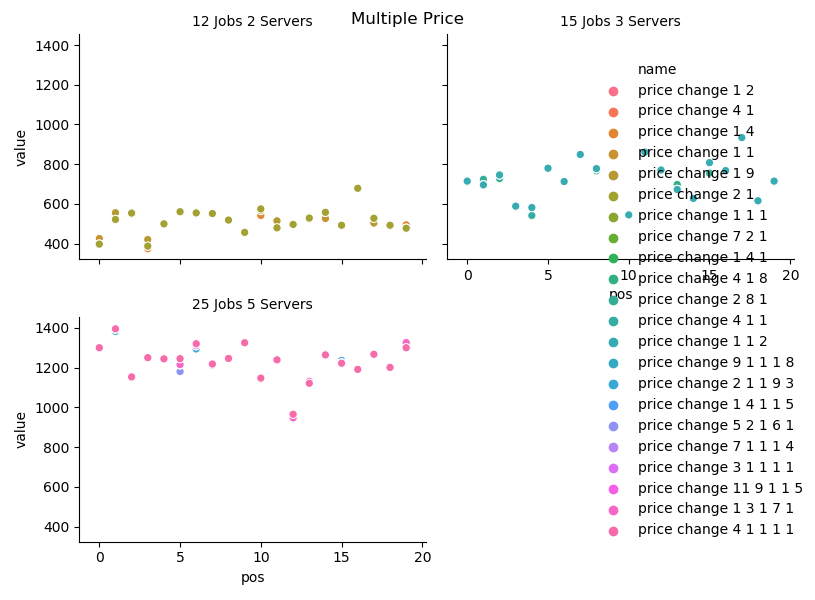
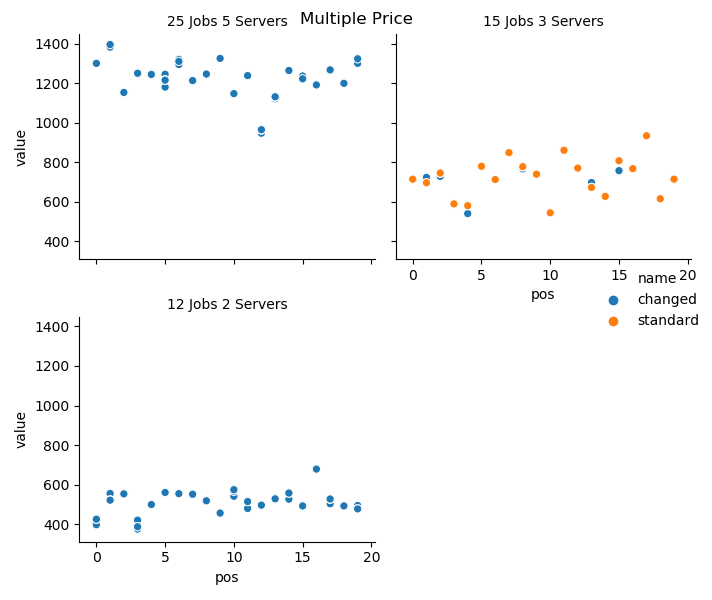
Report image update

diff --git a/testing/analysis/auctions_analysis.py b/testing/analysis/auctions_analysis.py
@@ -89,7 +89,37 @@ def plot_auction_results(files, title):
             for pos, results in enumerate(json_data):
                 for name, result in results.items():
                     data.append((model, pos, name, result[0], result[1]))
+    data = reversed(data)
 
+    df = pd.DataFrame(data, columns=['model', 'pos', 'name', 'value', 'price'])
+    g: sns.FacetGrid = sns.FacetGrid(df, col='model', col_wrap=2)
+    # noinspection PyUnresolvedReferences
+    g = (g.map(sns.scatterplot, 'pos', 'value', hue='name', data=df)
+         .set_titles("{col_name}").add_legend())
+    g.fig.subplots_adjust(top=0.9)
+    g.fig.suptitle(title)
+    plt.show()
+
+
+def plot_multiple_price_auction_results(files, title):
+    """
+    Plots the auction results
+    :param files: The files
+    :param title: The title
+    """
+    data = []
+    for file, model in files:
+        with open(file) as json_file:
+            json_data = json.load(json_file)
+
+            for pos, results in enumerate(json_data):
+                for name, result in results.items():
+                    if name == "price change 1 1" or name == "price change 1 1 1":
+                        data.append((model, pos, "standard", result[0], result[1]))
+                    else:
+                        data.append((model, pos, "changed", result[0], result[1]))
+
+    data = reversed(data)
     df = pd.DataFrame(data, columns=['model', 'pos', 'name', 'value', 'price'])
     g: sns.FacetGrid = sns.FacetGrid(df, col='model', col_wrap=2)
     # noinspection PyUnresolvedReferences
@@ -113,7 +143,7 @@ def plot_mutate_auction_results(files, title):
 
             for pos, results in enumerate(json_data):
                 for name, result in results.items():
-                    if name != 'no mutate':
+                    if name != 'no mutation':
                         data.append((model, pos, 'mutate', result[0], result[2] - result[3]))
 
                 data.append((model, pos, 'no mutation', results['no mutation'][0], results['no mutation'][2] - results['no mutation'][3]))
@@ -165,8 +195,8 @@ if __name__ == "__main__":
     ]
 
     # plot_auction_results(normal_files, "Normal")
-    # plot_auction_results(single_price_auctions, "Single Price")
-    # plot_auction_results(multi_price_auction, "Multiple Price")
+    plot_auction_results(single_price_auctions, "Single Price")
+    plot_multiple_price_auction_results(multi_price_auction, "Multiple Price")
 
     # plot_mutate_auction_results(mutated_price_auction, "Mutate")
     # plot_mutate_auction_results(mutated_price_2_auction, "Mutate 2")

diff --git a/testing/analysis/greedy_analysis.py b/testing/analysis/greedy_analysis.py
@@ -74,7 +74,7 @@ def plot_results(files, title, aspect):
                     best = max(value for value in results.values())
 
                 for result, value in results.items():
-                    if value is not None and value < best:
+                    if value is not None:
                         if result in algo_difference:
                             algo_difference[result].append(value / best)
                         else:
@@ -88,6 +88,9 @@ def plot_results(files, title, aspect):
     g = sns.FacetGrid(df, col='model', height=6, aspect=aspect, sharex=False)
     # noinspection PyUnresolvedReferences
     g = (g.map(sns.barplot, 'value', 'algorithm').set_titles("{col_name}"))
+    axes = g.axes
+    for pos in range(len(files)):
+        axes[0, pos].set_xlim(0.9, 1)
     g.fig.suptitle(title, size=16)
     g.fig.subplots_adjust(top=1)
     plt.show()
@@ -151,6 +154,12 @@ if __name__ == "__main__":
         ("../results/september_5/basic_j150_s25_no_optimal_greedy_test.txt", "150 Jobs 25 Servers"),
     ]
 
+    optimal_2_files = [
+        ("../results/september_6/basic_j12_s2_greedy_test.txt", "12 Jobs 2 Servers"),
+        ("../results/september_6/basic_j15_s3_greedy_test.txt", "15 Jobs 3 Servers"),
+        ("../results/september_6/basic_j25_s5_greedy_test.txt", "25 Jobs 5 Servers")
+    ]
+
     relaxed_2_files = [
         ("../results/september_6/relaxed_results_j12_s2.txt", "12 Jobs 2 Servers"),
         ("../results/september_6/relaxed_results_j15_s3.txt", "15 Jobs 3 Servers"),
@@ -161,6 +170,6 @@ if __name__ == "__main__":
     # plot_results(no_optimal_files, "Greedy results without Optimal")
     # plot_results(j25_s2_files, "Greedy results without Optimal")
     # plot_relaxed(relaxed_1_files)
-    # plot_results(no_optimal_2_files, "Greedy results without Optimal", 0.55)
-    # plot_results(optimal_2_files, "Greedy results with Optimal", 1)
-    plot_relaxed(relaxed_2_files)
+    plot_results(no_optimal_2_files, "Greedy results without Optimal", 0.55)
+    plot_results(optimal_2_files, "Greedy results with Optimal", 0.75)
+    # plot_relaxed(relaxed_2_files)

diff --git a/report/auctions.tex b/report/auctions.tex
@@ -1,8 +1,11 @@
+\usepackage{graphicx}
+
 While the greedy algorithm allows us to find near optimals for problems where we have perfect information about the
 problem case like the job utility, this may be private information that the job owner doesnt want to reveal also
 server would want to get paid for that work that they do. \\
-We propose a iterative auctions where the job owner doesnt have to reveal it's true utility. In normal VCG auctions,
-then the auctioneer will solve the problem to maximise the social welfare (total utility of allocated jobs) and
+We propose a iterative auctions that occurs before any processing is done and allows the job owner doesnt have to reveal
+it's true utility. In normal VCG auctions, then the auctioneer will solve the problem to maximise the social welfare
+(total utility of allocated jobs) and
 must find the optimal solution. Then for each job and server, the job or server is removed from the problem case and the
 optimal is solved for that as well with the server's revenue it is paid and the job's cost being the social welfare of
 the optimal solution minus the social welfare of the optimal without the job or server. This is extremely slow and
@@ -61,4 +64,9 @@ while len(unallocated_jobs):
     \centering
     \includegraphics[width=1\linewidth]{./images/multiple_price_auction_results.png}
     \caption{Multiple Price auction results}
+\end{figure}
+\begin{figure}[H]
+    \centering
+    \includegraphics[width=1\linewidth]{./images/mutated_auction.png}
+    \caption{Mutated Jobs and servers in auctions}
 \end{figure}

diff --git a/report/greedy-algorithm.tex b/report/greedy-algorithm.tex
@@ -84,13 +84,13 @@ Both of these greedy algorithm are near optimal approximation algorithm with a l
 optimal solution.
 
 \subsection{Greedy algorithms results}\label{subsec:greedy-algorithms-results}
-\begin{figure}
-\centering
-        \includegraphics[width=1\linewidth, height=5cm]{./images/optimal_greedy_results.png}
+\begin{figure}[H]
+    \centering
+    \includegraphics[width=1\linewidth, height=5cm]{./images/optimal_greedy_results.png}
     \caption{Greedy Results}
 \end{figure}
-\begin{figure}
-\centering
-        \includegraphics[width=1\linewidth, height=5cm]{./images/no_optimal_greedy_results.png}
+\begin{figure}[H]
+    \centering
+    \includegraphics[width=1\linewidth, height=5cm]{./images/no_optimal_greedy_results.png}
     \caption{Greedy Results with the optimal algorithms}
 \end{figure}

diff --git a/report/static_resource_allocation.tex b/report/static_resource_allocation.tex
@@ -5,7 +5,6 @@
 \usepackage{listings}
 \usepackage[export]{adjustbox}
 \usepackage{subcaption}
-\usepackage{graphicx}
 \usepackage{xcolor}   % for \textcolor
 \usepackage{float}
 \usepackage{array}
@@ -21,7 +20,7 @@
 
 \title{Static Resource Allocation}
 \author{Mark Towers}
-\date{June 2019}
+\date
 
 \begin{document}
 \maketitle
